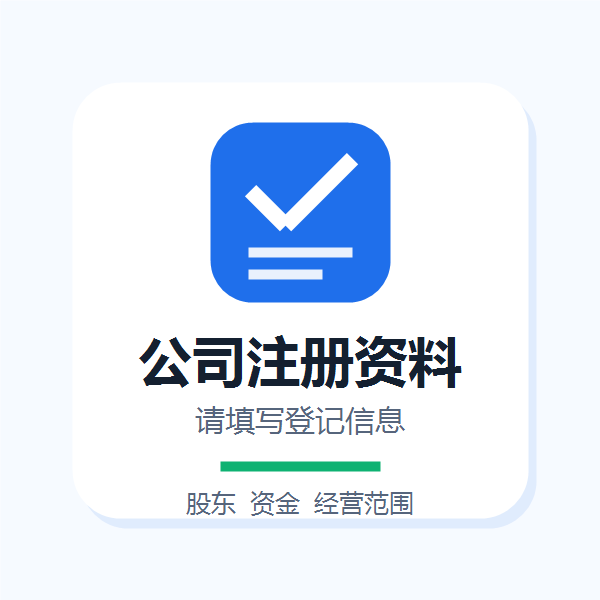
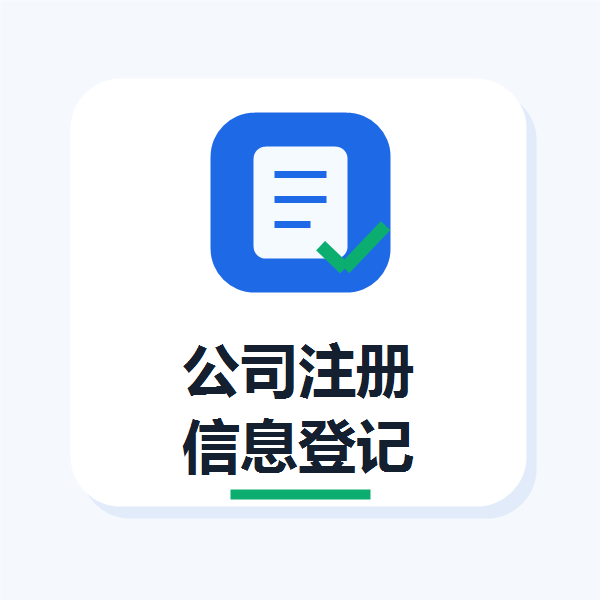
Simplify WeChat share card copy

diff --git a/frontend/index.html b/frontend/index.html
@@ -3,16 +3,16 @@
   <head>
     <meta charset="UTF-8" />
     <meta name="viewport" content="width=device-width, initial-scale=1.0" />
-    <meta name="description" content="请按要求填写公司名称、股东、注册资金、经营范围等信息" />
+    <meta name="description" content="请按要求补充公司登记所需信息" />
     <meta property="og:type" content="website" />
-    <meta property="og:title" content="公司注册资料填写" />
-    <meta property="og:description" content="请按要求填写公司名称、股东、注册资金、经营范围等信息" />
-    <meta property="og:image" content="/wechat-share-v2.png" />
+    <meta property="og:title" content="公司注册信息登记" />
+    <meta property="og:description" content="请按要求补充公司登记所需信息" />
+    <meta property="og:image" content="/wechat-share-v3.png" />
     <meta name="twitter:card" content="summary" />
-    <meta name="twitter:title" content="公司注册资料填写" />
-    <meta name="twitter:description" content="请按要求填写公司名称、股东、注册资金、经营范围等信息" />
-    <meta name="twitter:image" content="/wechat-share-v2.png" />
-    <title>公司注册资料填写</title>
+    <meta name="twitter:title" content="公司注册信息登记" />
+    <meta name="twitter:description" content="请按要求补充公司登记所需信息" />
+    <meta name="twitter:image" content="/wechat-share-v3.png" />
+    <title>公司注册信息登记</title>
   </head>
   <body>
     <div id="root"></div>

diff --git a/docs/DEPLOYMENT.md b/docs/DEPLOYMENT.md
@@ -141,9 +141,9 @@ alembic upgrade head
 WECHAT_MP_APP_ID=你的公众号 AppID
 WECHAT_MP_APP_SECRET=你的公众号 AppSecret
 WECHAT_MP_CALLBACK_BASE_URL=https://你的域名
-WECHAT_SHARE_TITLE=公司注册资料填写
-WECHAT_SHARE_DESC=请按要求填写公司名称、股东、注册资金、经营范围等信息
-WECHAT_SHARE_IMAGE_URL=https://你的域名/wechat-share-v2.png
+WECHAT_SHARE_TITLE=公司注册信息登记
+WECHAT_SHARE_DESC=请按要求补充公司登记所需信息
+WECHAT_SHARE_IMAGE_URL=https://你的域名/wechat-share-v3.png
 ```
 
 公众号后台需要配置：